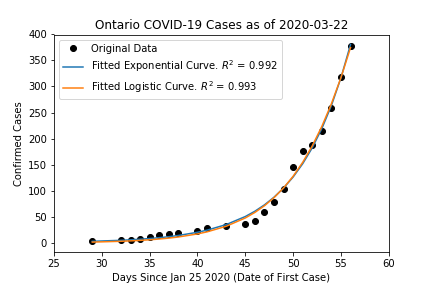
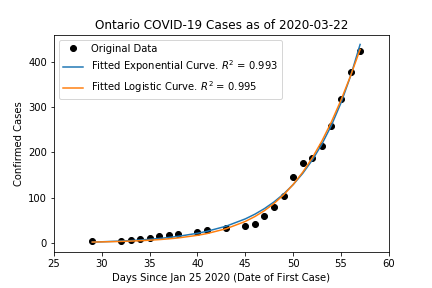
Update for March 22

diff --git a/README.md b/README.md
@@ -15,6 +15,6 @@ articles for each data point.
 ![Graph of Ontario COVID-19 Cases](https://github.com/deanhuiwang/ontario-coronavirus/blob/master/img/2020-03-22.png)
 
 ## Prediction
-Exponential prediction for the next day: 457 confirmed cases
+Exponential prediction for the next day: 522 confirmed cases
 
-Logistic prediction for the next day: 439 confirmed cases
+Logistic prediction for the next day: 491 confirmed cases
